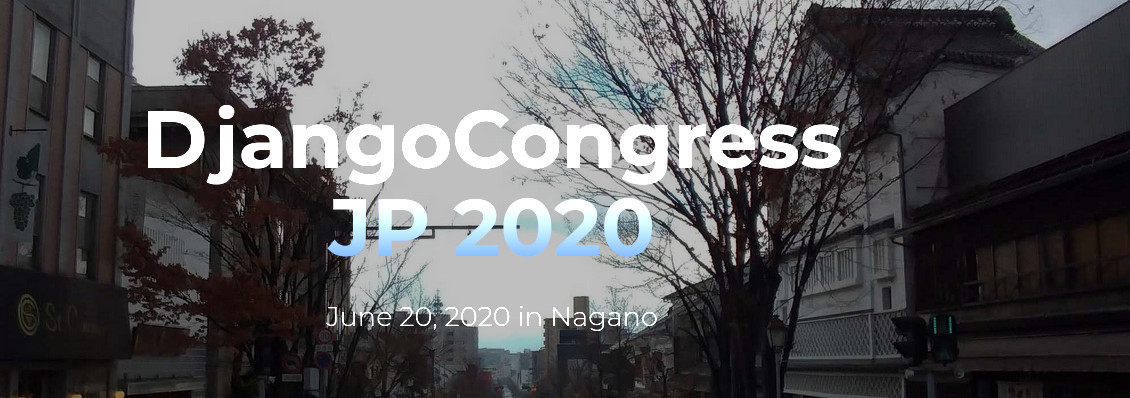
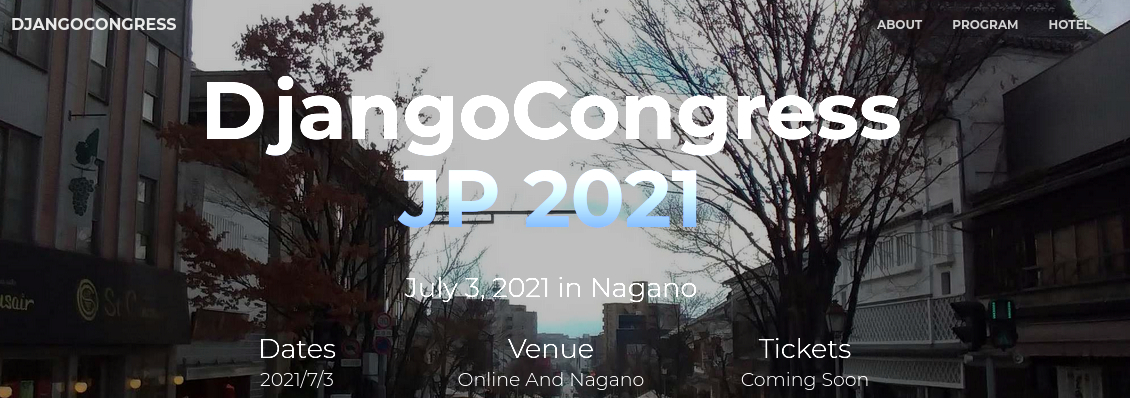
DjangoCongress JP 2021へのリンクを追加

diff --git a/miya/templates/template_for_home.html b/miya/templates/template_for_home.html
@@ -37,6 +37,12 @@
       <div class="col-md-none ">
         <!-- start slider -->
         <div class="container">
+          <div class="alert alert-info text-dark text-center">
+            <p>
+              2021年7月3日に、<a href="https://djangocongress.jp/" class="alert-link" target="_blank">DjangoCongress JP 2021が開催</a>されます。<br>
+              <a href="https://djangocongress.jp/#program" class="alert-link" target="_blank">Djangoに関する発表を募集</a>しています。<strong>応募締切は5月12日！</strong>
+            </p>
+          </div>
           <div class="row">
             <div class="col-lg-12">
               <!-- Slider -->
